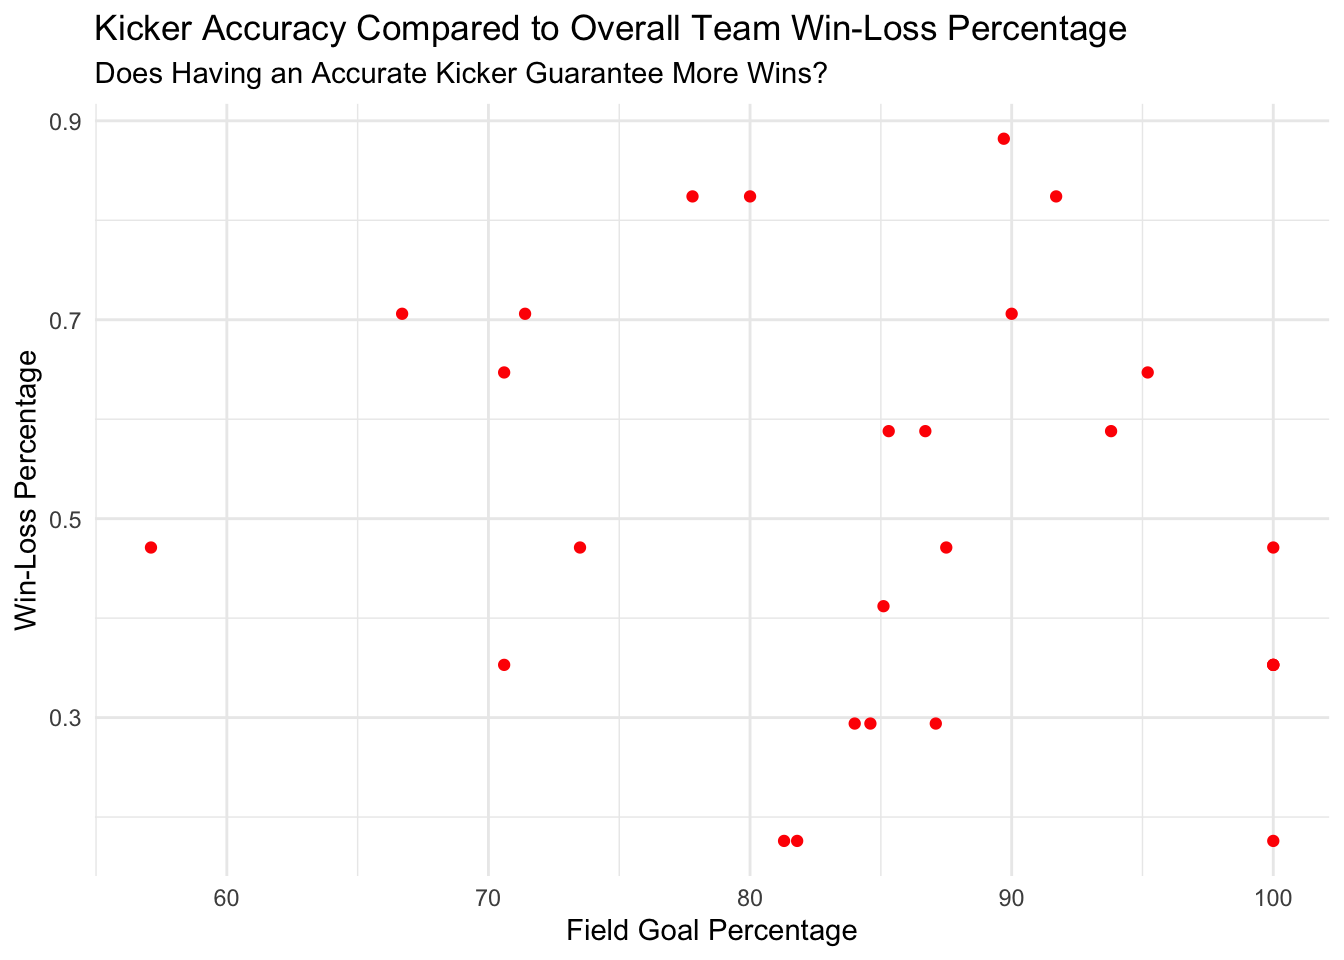
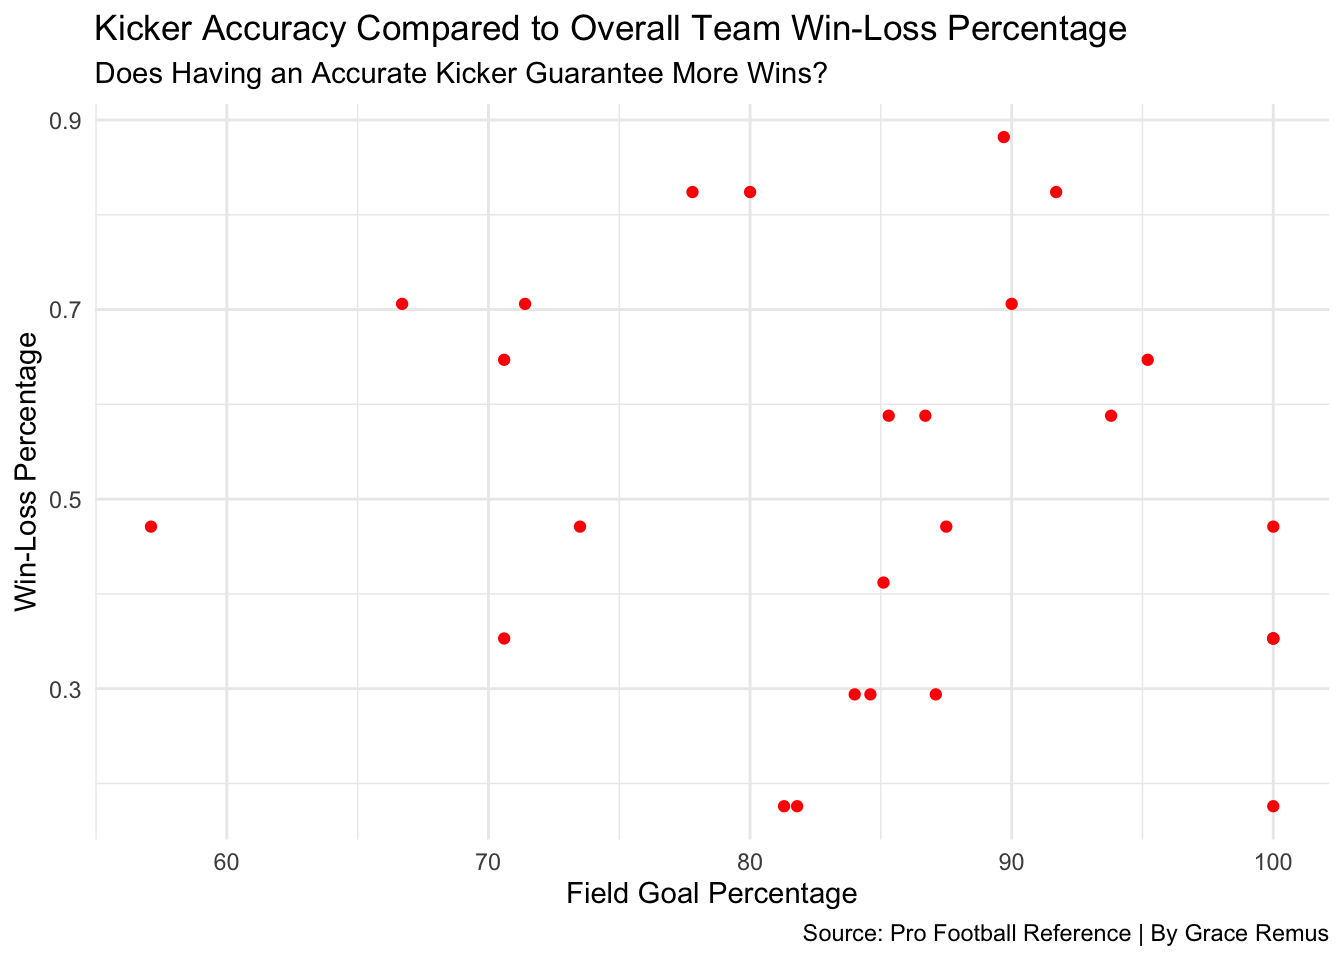
finishing

diff --git a/posts/kicker-value-to-getting-wins/index.html b/posts/kicker-value-to-getting-wins/index.html
@@ -254,7 +254,7 @@ pre > code.sourceCode > span > a:first-child::before { text-decoration: underlin
 <span id="cb1-51"><a href="#cb1-51" aria-hidden="true" tabindex="-1"></a>    <span class="at">x =</span> <span class="st">"Field Goal Percentage"</span>,</span>
 <span id="cb1-52"><a href="#cb1-52" aria-hidden="true" tabindex="-1"></a>    <span class="at">y =</span> <span class="st">"Win-Loss Percentage"</span>,</span>
 <span id="cb1-53"><a href="#cb1-53" aria-hidden="true" tabindex="-1"></a>    <span class="at">title =</span> <span class="st">"Kicker Accuracy Compared to Overall Team Win-Loss Percentage"</span>,</span>
-<span id="cb1-54"><a href="#cb1-54" aria-hidden="true" tabindex="-1"></a>    <span class="at">subtitle =</span> <span class="st">"Does Having an Accurate Kicker Guarantee More Wins?"</span></span>
+<span id="cb1-54"><a href="#cb1-54" aria-hidden="true" tabindex="-1"></a>    <span class="at">subtitle =</span> <span class="st">"Does Having an Accurate Kicker Guarantee More Wins?"</span>, <span class="at">caption=</span><span class="st">"Source: Pro Football Reference | By Grace Remus"</span></span>
 <span id="cb1-55"><a href="#cb1-55" aria-hidden="true" tabindex="-1"></a>  ) <span class="sc">+</span></span>
 <span id="cb1-56"><a href="#cb1-56" aria-hidden="true" tabindex="-1"></a>  <span class="fu">theme_minimal</span>()</span></code></pre></div><button title="Copy to Clipboard" class="code-copy-button"><i class="bi"></i></button></div>
 </details>
@@ -292,7 +292,7 @@ pre > code.sourceCode > span > a:first-child::before { text-decoration: underlin
 <span id="cb2-17"><a href="#cb2-17" aria-hidden="true" tabindex="-1"></a>  <span class="fu">coord_flip</span>() <span class="sc">+</span></span>
 <span id="cb2-18"><a href="#cb2-18" aria-hidden="true" tabindex="-1"></a>  <span class="fu">scale_fill_manual</span>(<span class="at">values =</span> <span class="fu">c</span>(<span class="st">"kicker_PTS"</span> <span class="ot">=</span> <span class="st">"red"</span>, <span class="st">"other_PTS"</span> <span class="ot">=</span> <span class="st">"dodgerblue"</span>),</span>
 <span id="cb2-19"><a href="#cb2-19" aria-hidden="true" tabindex="-1"></a>                    <span class="at">labels =</span> <span class="fu">c</span>(<span class="st">"Kicker Points"</span>, <span class="st">"Offensive Points"</span>)) <span class="sc">+</span></span>
-<span id="cb2-20"><a href="#cb2-20" aria-hidden="true" tabindex="-1"></a>  <span class="fu">labs</span>(<span class="at">title =</span> <span class="st">"Kicker Contribution to Team Points"</span>, <span class="at">subtitle =</span> <span class="st">"How many points are kickers scoring compared to the rest of the team?"</span>, <span class="at">x =</span> <span class="st">"Team"</span>, <span class="at">y =</span> <span class="st">"Points"</span>) <span class="sc">+</span></span>
+<span id="cb2-20"><a href="#cb2-20" aria-hidden="true" tabindex="-1"></a>  <span class="fu">labs</span>(<span class="at">title =</span> <span class="st">"Kicker Contribution to Team Points"</span>, <span class="at">subtitle =</span> <span class="st">"How many points are kickers scoring compared to the rest of the team?"</span>, <span class="at">caption=</span><span class="st">"Source: Pro Football Reference | By Grace Remus"</span>, <span class="at">x =</span> <span class="st">"Team"</span>, <span class="at">y =</span> <span class="st">"Points"</span>) <span class="sc">+</span></span>
 <span id="cb2-21"><a href="#cb2-21" aria-hidden="true" tabindex="-1"></a>  <span class="fu">theme_minimal</span>()</span></code></pre></div><button title="Copy to Clipboard" class="code-copy-button"><i class="bi"></i></button></div>
 </details>
 <div class="cell-output-display">
@@ -336,7 +336,7 @@ pre > code.sourceCode > span > a:first-child::before { text-decoration: underlin
 <span id="cb3-25"><a href="#cb3-25" aria-hidden="true" tabindex="-1"></a>  <span class="fu">geom_text_repel</span>(<span class="fu">aes</span>(<span class="at">label =</span> Team), <span class="at">hjust =</span> <span class="fl">1.1</span>, <span class="at">vjust =</span> <span class="fl">0.5</span>, <span class="at">size =</span> <span class="dv">3</span>) <span class="sc">+</span></span>
 <span id="cb3-26"><a href="#cb3-26" aria-hidden="true" tabindex="-1"></a>  <span class="fu">scale_color_manual</span>(<span class="at">values =</span> team_colors, <span class="at">labels =</span> nfc_kicking_2024<span class="sc">$</span>Team) <span class="sc">+</span></span>
 <span id="cb3-27"><a href="#cb3-27" aria-hidden="true" tabindex="-1"></a>  <span class="fu">labs</span>(</span>
-<span id="cb3-28"><a href="#cb3-28" aria-hidden="true" tabindex="-1"></a>    <span class="at">title =</span> <span class="st">"Kicker Contribution vs Team Strength (SRS)"</span>,</span>
+<span id="cb3-28"><a href="#cb3-28" aria-hidden="true" tabindex="-1"></a>    <span class="at">title =</span> <span class="st">"How Much do Kickers Really Decide a Season?"</span>, <span class="at">subtitle =</span> <span class="st">"Revealing how team power shapes kicker contribution"</span>, <span class="at">caption=</span><span class="st">"Source: Pro Football Reference | By Grace Remus"</span>,</span>
 <span id="cb3-29"><a href="#cb3-29" aria-hidden="true" tabindex="-1"></a>    <span class="at">x =</span> <span class="st">"% of Team Points from Kicker"</span>,</span>
 <span id="cb3-30"><a href="#cb3-30" aria-hidden="true" tabindex="-1"></a>    <span class="at">y =</span> <span class="st">"SRS (Team Strength)"</span>,</span>
 <span id="cb3-31"><a href="#cb3-31" aria-hidden="true" tabindex="-1"></a>    <span class="at">size =</span> <span class="st">"Kicker Points"</span>,</span>

diff --git a/index.html b/index.html
@@ -209,7 +209,7 @@ window.Quarto = {
 
 <div class="quarto-listing quarto-listing-container-default" id="listing-listing">
 <div class="list quarto-listing-default">
-<div class="quarto-post image-right" data-index="0" data-categories="Zm9vdGJhbGwlMkNuZmwlMkNraWNrZXI=" data-listing-date-sort="1763359200000" data-listing-file-modified-sort="1763427576345" data-listing-date-modified-sort="NaN" data-listing-reading-time-sort="7" data-listing-word-count-sort="1367">
+<div class="quarto-post image-right" data-index="0" data-categories="Zm9vdGJhbGwlMkNuZmwlMkNraWNrZXI=" data-listing-date-sort="1763359200000" data-listing-file-modified-sort="1763428430304" data-listing-date-modified-sort="NaN" data-listing-reading-time-sort="8" data-listing-word-count-sort="1402">
 <div class="thumbnail"><a href="./posts/kicker-value-to-getting-wins/index.html" class="no-external">
 
 <img loading="lazy" src="./posts/kicker-value-to-getting-wins/image.png" class="thumbnail-image">
